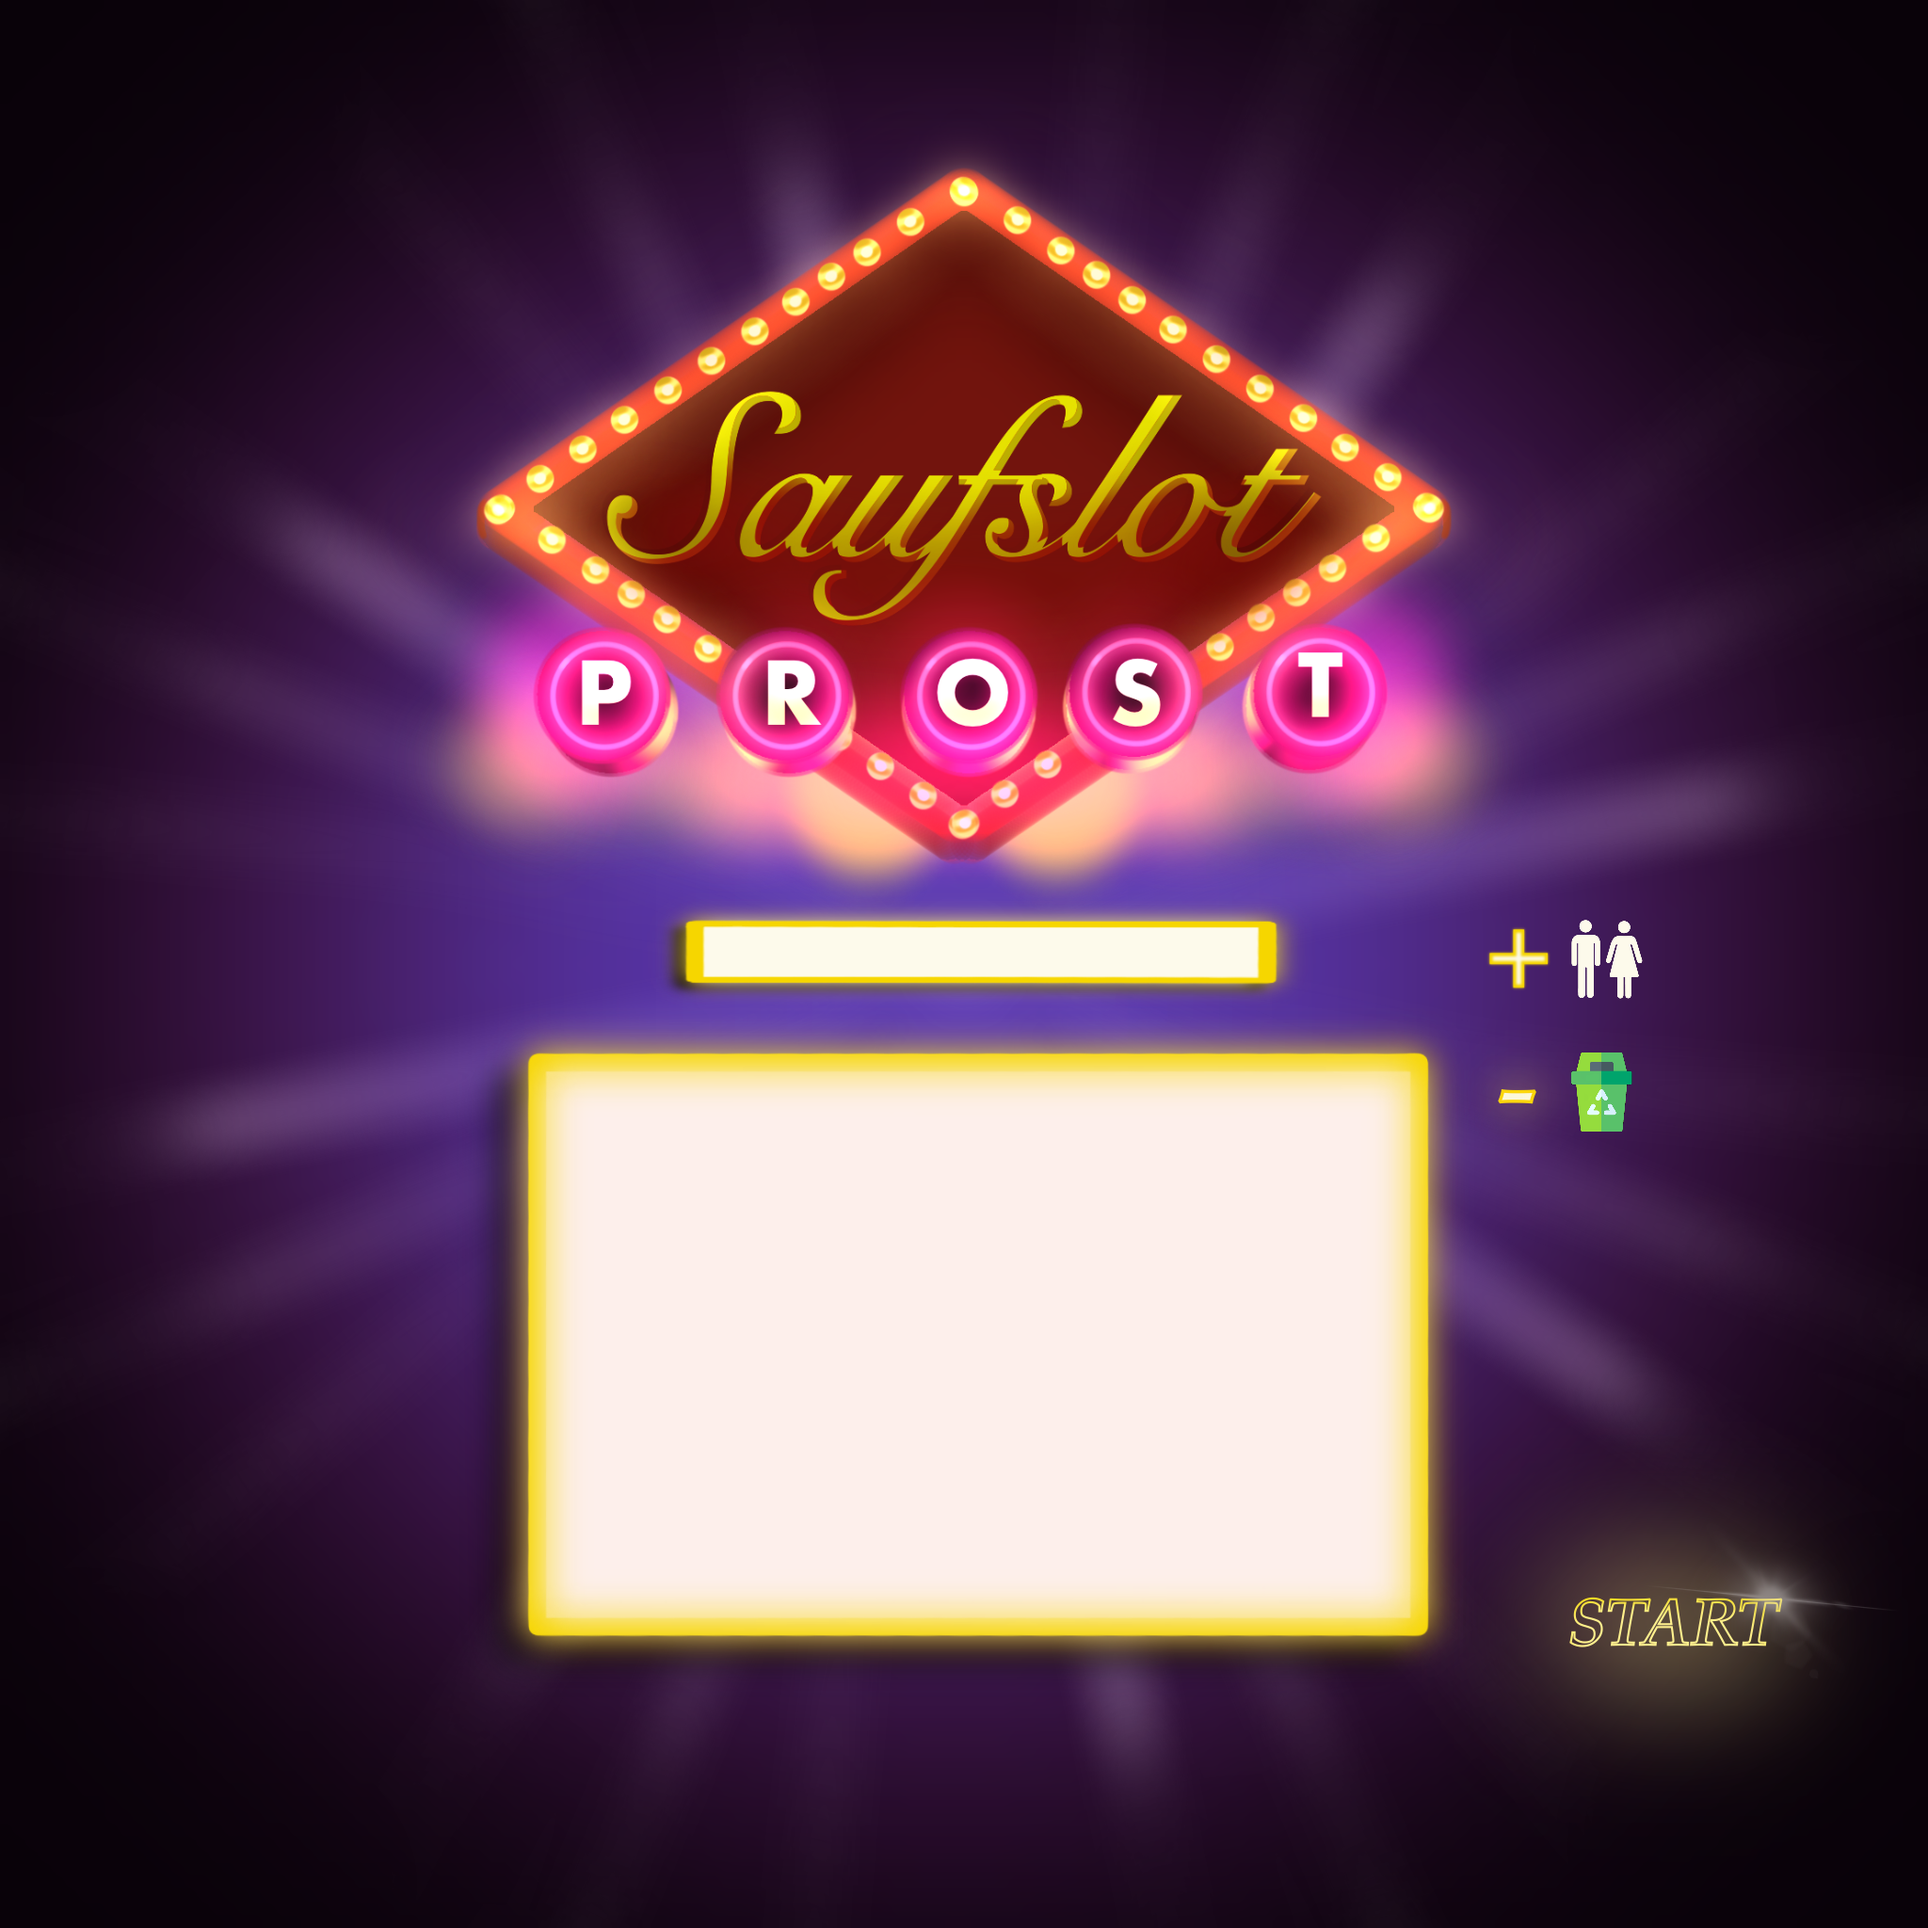
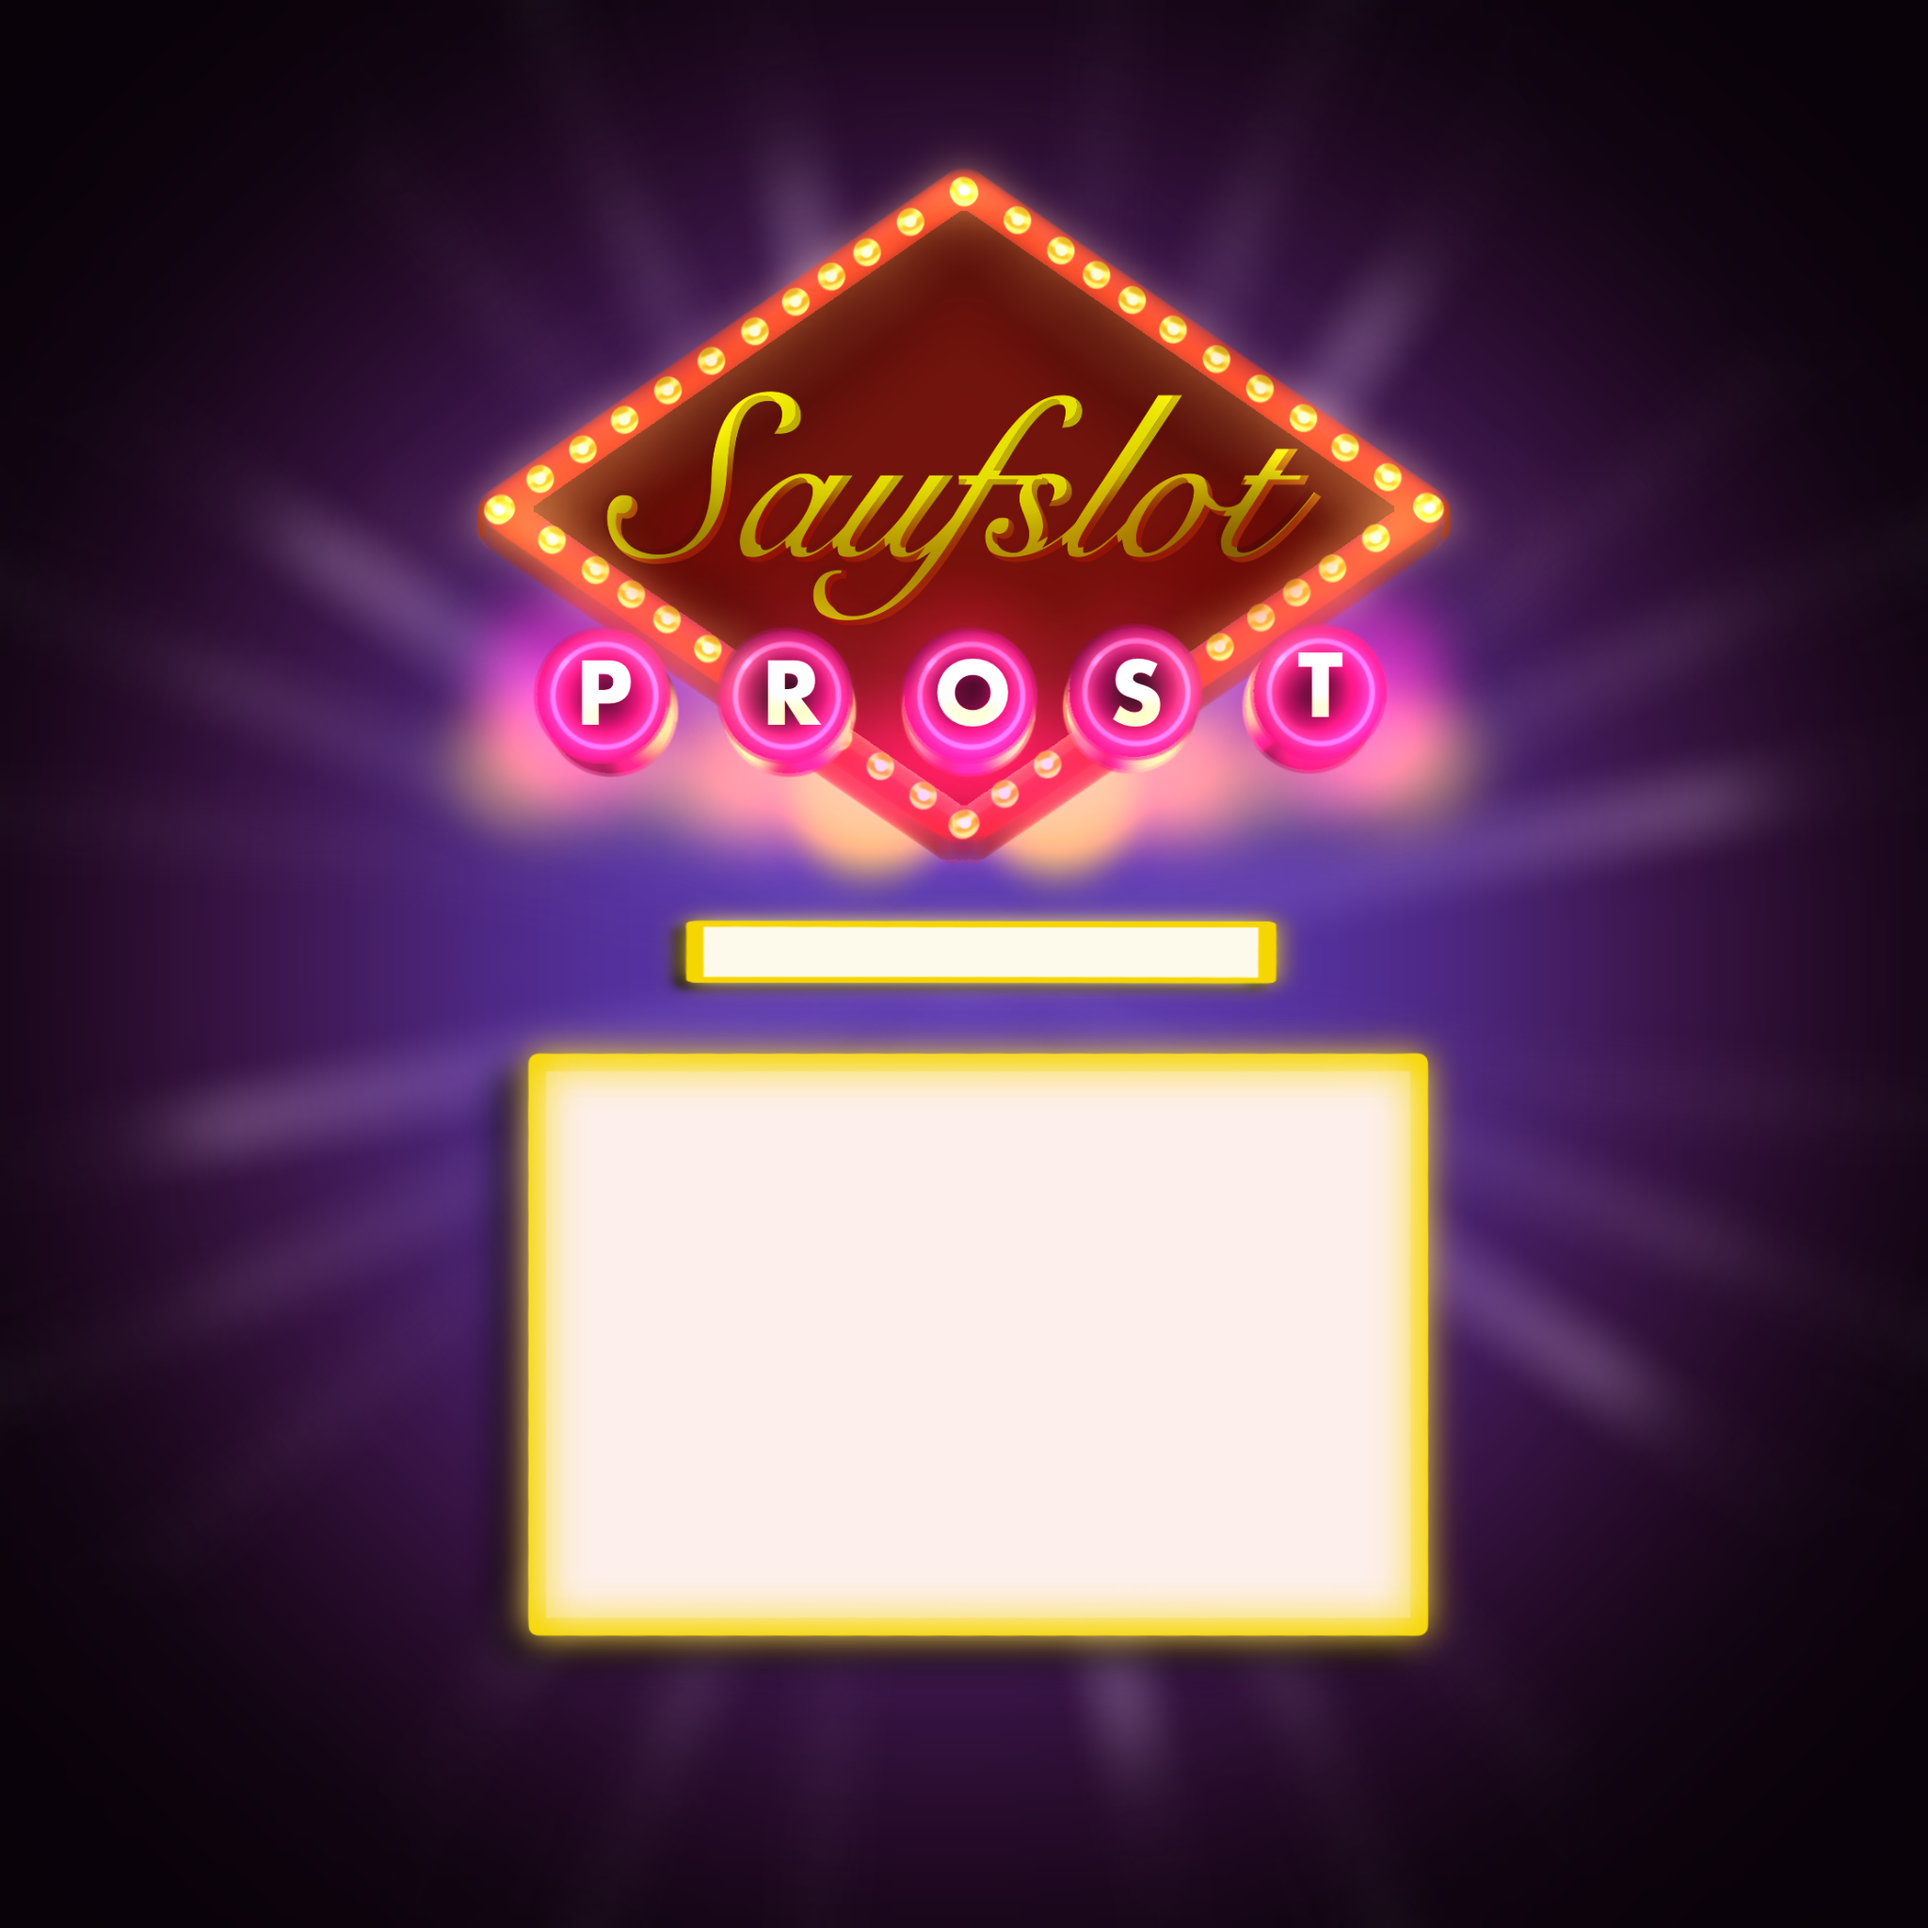
Fertig  mit Komentare

Changed region(s): [[0.7812, 0.7812, 0.9688, 0.9062], [0.7812, 0.4688, 0.8438, 0.5938]]

diff --git a/mainwindow.cpp b/mainwindow.cpp
@@ -12,7 +12,7 @@ MainWindow::MainWindow(QWidget *parent)
 {
     ui->setupUi(this);
 
-    //background Label
+    // Hintergrund hinzufügen
     QDir dir("../"); // Hier wird 'dir' deklariert
     QString spielfenster_pfad = dir.absoluteFilePath("Spielautomat/images/Startpage.png");
     QPixmap spielfenster(spielfenster_pfad);
@@ -20,6 +20,40 @@ MainWindow::MainWindow(QWidget *parent)
     ui->Background_Label->setPixmap(spielfenster);
     ui->Background_Label->setScaledContents(true);
     ui->Background_Label->setSizePolicy( QSizePolicy::Ignored, QSizePolicy::Ignored );
+
+
+
+    // Spieler_hinzufügen Button Hintergrundbild hinzufügen
+    QString Spieler_hinzufuegen_pfad = dir.absoluteFilePath("Spielautomat/images/Spieler_hinzufuegen.png");
+    ui->Spieler_Hinzufuegen->setStyleSheet("QPushButton {"
+                                           "background-image: url('"+Spieler_hinzufuegen_pfad +"');"
+                                           "background-repeat: no-repeat;"
+                                           "background-position: center;"
+                                           "border: none;"  // entfernen Sie die Rahmen des Buttons
+                                           "}");
+
+    // Spieler_hinzufügen Button Hintergrundbild hinzufügen
+    QString Spieler_loeschen_pfad = dir.absoluteFilePath("Spielautomat/images/Spieler_loeschen.png");
+    ui->Spieler_Loeschen->setStyleSheet("QPushButton {"
+                                           "background-image: url('"+Spieler_loeschen_pfad +"');"
+                                                                        "background-repeat: no-repeat;"
+                                                                        "background-position: center;"
+                                                                        "border: none;"  // entfernen Sie die Rahmen des Buttons
+                                                                        "}");
+
+    // Spieler_hinzufügen Button Hintergrundbild hinzufügen
+    QString Fertig_pfad = dir.absoluteFilePath("Spielautomat/images/Fertig.png");
+    ui->Fertig->setStyleSheet("QPushButton {"
+                                           "background-image: url('"+Fertig_pfad +"');"
+                                                                     "background-repeat: no-repeat;"
+                                                                     "background-position: center;"
+                                                                     "border: none;"  // entfernen Sie die Rahmen des Buttons
+                                                                     "}");
+
+    ui->listWidget->setStyleSheet("QListWidget { border: none; }");
+    ui->Eingabe->setStyleSheet("QLineEdit{ border: none; }");
+
+
 
 }
 
@@ -33,8 +67,10 @@ MainWindow::~MainWindow()
 void MainWindow::on_Spieler_Hinzufuegen_clicked()
 {
     bool nameVorhanden = false;
+    // Text aus QEditLine auslesen
     QString name = ui->Eingabe->text();
 
+    // Überprüfung, ob Name bereits vorhanden ist
     for(int i = 0; i < ui->listWidget->count(); ++i) {
         // Hole den Text des Listenelements an der aktuellen Position
         QString aktuellerName = ui->listWidget->item(i)->text();
@@ -48,11 +84,13 @@ void MainWindow::on_Spieler_Hinzufuegen_clicked()
     }
     // Was passiert wenn name nicht vorhanden ist
     if(nameVorhanden == false){
+        // Wenn Name nicht vorhanden ist wird neuer Name hinzugefügt
     ui->listWidget->addItem(name);
     }else {
+        // Falls Name doch vorhanden ist wird eine Fehlermeldung ausgegeben
         QMessageBox::information(this,tr("Fehlermeldung"),tr("Name ist bereits"));
     }
-
+    // Text aus QEditLine löschen
     ui->Eingabe->clear();
 
 
@@ -62,23 +100,27 @@ void MainWindow::on_Spieler_Hinzufuegen_clicked()
 
 void MainWindow::on_Fertig_clicked()
 {
-
+    // Überprüdung ob die eine leere Liste übergeben wird
     if(ui->listWidget->count() == 0){
+        // Wenn eine Liste übergebn wird eine Fehlermeldung ausgeben
         QMessageBox::information(this,tr("Fehlermeldung"),tr("Bitte Spieler eintragen!"));
     } else{
+        // Abspeichern der Liste in ein QList<Qstring>
         for(int i = 0; i < ui->listWidget->count(); ++i) {
             // Hole den Text des Listenelements an der aktuellen Position und füge ihn zur Ergebnisliste hinzu
             Spielerliste().spieler_hinzufuegen(ui->listWidget->item(i)->text());
 
 
         }
-    spielfenster.setModal(true);
-    spielfenster.exec();
+        // Öffnen des Spielerfensters
+        spielfenster.setModal(true);
+        spielfenster.exec();
      }
 }
 
 void MainWindow::on_Spieler_Loeschen_clicked()
 {
+    // Element aus der Liste löschen
     QListWidgetItem *item = ui->listWidget->currentItem();
     if (item) {
         delete ui->listWidget->takeItem(ui->listWidget->row(item));
@@ -89,6 +131,7 @@ void MainWindow::on_Spieler_Loeschen_clicked()
 
 void MainWindow::on_exit_clicked()
 {
+    // Schließen des Programms
     close();
 }
 

diff --git a/spielfenster.cpp b/spielfenster.cpp
@@ -6,6 +6,7 @@
 #include "QPixmap"
 #include "QDir"
 #include "QFileInfo"
+#include "QMessageBox"
 
 
 int rundenseitJackpot = 0;
@@ -24,6 +25,25 @@ Spielfenster::Spielfenster(QWidget *parent) :
     ui->Background_Label->setPixmap(spielfenster);
     ui->Background_Label->setScaledContents(true);
     ui->Background_Label->setSizePolicy( QSizePolicy::Ignored, QSizePolicy::Ignored );
+
+    // Spin Button Hintergrundbild hinzufügen
+    QString Spin_pfad = dir.absoluteFilePath("Spielautomat/images/Spin.png");
+    ui->Spin_button->setStyleSheet("QPushButton {"
+                              "background-image: url('"+Spin_pfad +"');"
+                                              "background-repeat: no-repeat;"
+                                              "background-position: center;"
+                                              "border: none;"  // entfernen Sie die Rahmen des Buttons
+                                              "}");
+
+    // Spin Button Hintergrundbild hinzufügen
+    QString Beenden_pfad = dir.absoluteFilePath("Spielautomat/images/Beenden.png");
+    ui->Spiel_beenden->setStyleSheet("QPushButton {"
+                                   "background-image: url('"+Beenden_pfad +"');"
+                                                 "background-repeat: no-repeat;"
+                                                 "background-position: center;"
+                                                 "border: none;"  // entfernen Sie die Rahmen des Buttons
+                                                 "}");
+
 
 }
 
@@ -46,13 +66,7 @@ void Spielfenster::on_Spin_button_clicked()
 
     QString bild1_s, bild2_s, bild3_s; // Deklaration der Variablen außerhalb des switch-Blocks
 
-    if(!(wheel1 == wheel2 && wheel1==wheel3))
-    {
-        if (rundenseitJackpot >= 32){
-            rundenseitJackpot = 0;
-        }
-        rundenseitJackpot++;
-    }
+
     switch(wheel1)
     {
     case 1:
@@ -195,6 +209,18 @@ void Spielfenster::on_Spin_button_clicked()
 
     ui->Name_Line->setText(Ausgabe_Name);
 
+    if(!(wheel1 == wheel2 && wheel1==wheel3))
+    {
+        if (rundenseitJackpot >= 128){
+            rundenseitJackpot = 0;
+        }
+        rundenseitJackpot++;
 
+    }
+    // Aufruf MessageBox, wenn es drei gleiche Symbole sind
+    if(wheel1 == wheel2 && wheel1==wheel3)
+    {
+    QMessageBox::information(this,tr("Jackpot"),tr("Du hast gewonnen"));
+    }
 }
 

diff --git a/zufallsgenerator.cpp b/zufallsgenerator.cpp
@@ -4,7 +4,7 @@
 
 Zufallsgenerator::Zufallsgenerator() {}
 
-
+//Kreieren eines Pools in dem jeder Name vier mal vorkommt
 QList<QString> Zufallsgenerator::multiplyNames(const QList<QString>& names) {
     QList<QString> multipliedNames;
     for (const QString &name : names) {
@@ -16,13 +16,13 @@ QList<QString> Zufallsgenerator::multiplyNames(const QList<QString>& names) {
     std::random_shuffle(multipliedNames.begin(), multipliedNames.end());
     return multipliedNames;
 }
-
+//Auswählen eines Spielers aus des Pools ohne Zurücklegen um besser verteilte Gewinner zu erhalten
 QString Zufallsgenerator::selectRandomPlayer(const QList<QString>& multipliedNames) {
     int index = std::rand() % multipliedNames.size();
     QString selectedPlayer = multipliedNames[index];
     return selectedPlayer;
 }
-
+//Die Random Bild Methode wählt je nachdem wie lange kein Jackpot mehr kam die wahrscheinlichkeit für einen Jackpot
 int Zufallsgenerator::randomBild(int rundenseitJackpot) {
     int array[4][20] = {{1, 2, 2, 3, 3, 3, 3, 4, 4, 4, 4, 4, 4, 5, 5, 5, 5, 5, 5, 5},
                         {1, 1, 2, 2, 3, 3, 3, 3, 4, 4, 4, 4, 4, 4, 5, 5, 5, 5, 5, 5},

diff --git a/Spielerliste.cpp b/Spielerliste.cpp
@@ -10,22 +10,22 @@ Spielerliste::Spielerliste() {
 QList<QString> Liste;
 
 void Spielerliste::spieler_hinzufuegen(const QString& name){
-
+// Spieler hinzufügen
         Liste.append(name);
 
 }
 QList<QString> Spielerliste::get_Spielerliste(){
-
+//Ausgabe Spielerliste
     return Liste;
 
 }
 
 QString Spielerliste::get_Spielername(int index){
-
+// Ausgabe Spielername
     return Liste.at(index);
 }
 
 void Spielerliste::liste_loeschen(){
-
+// Liste löschen
     Liste.clear();
 }
